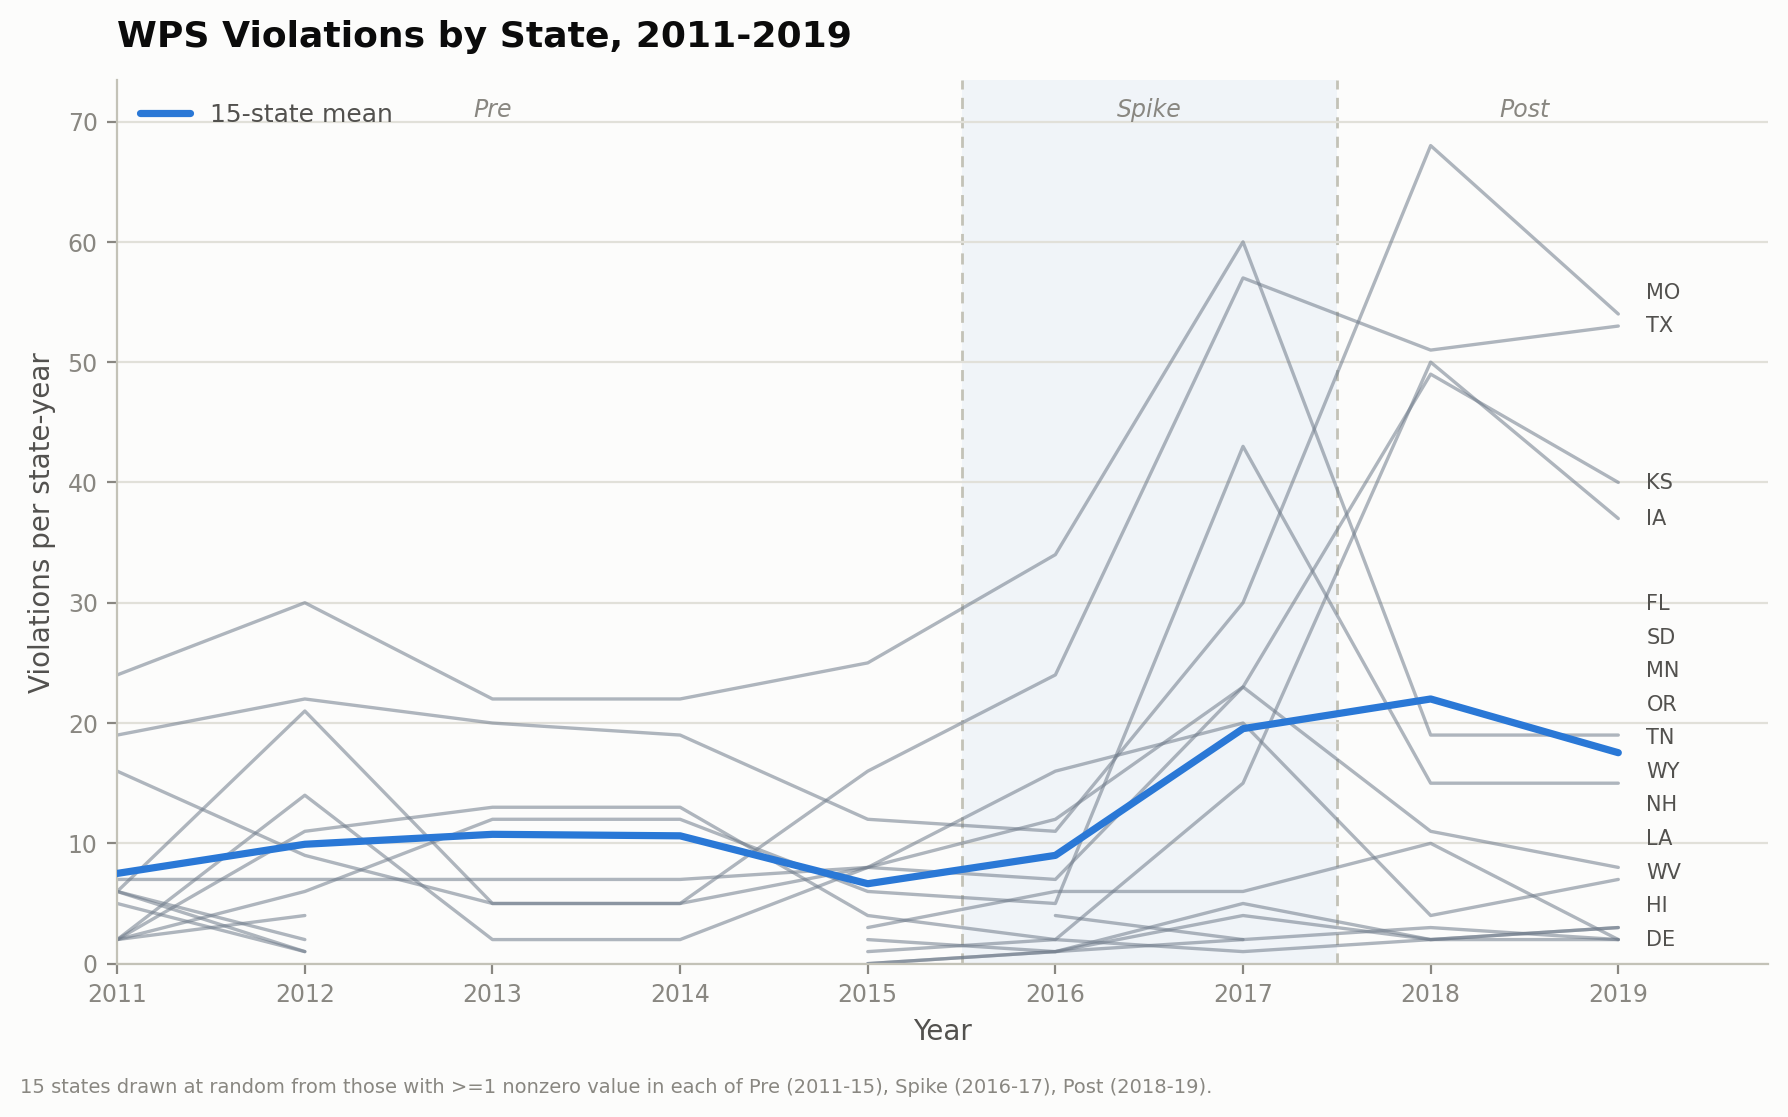
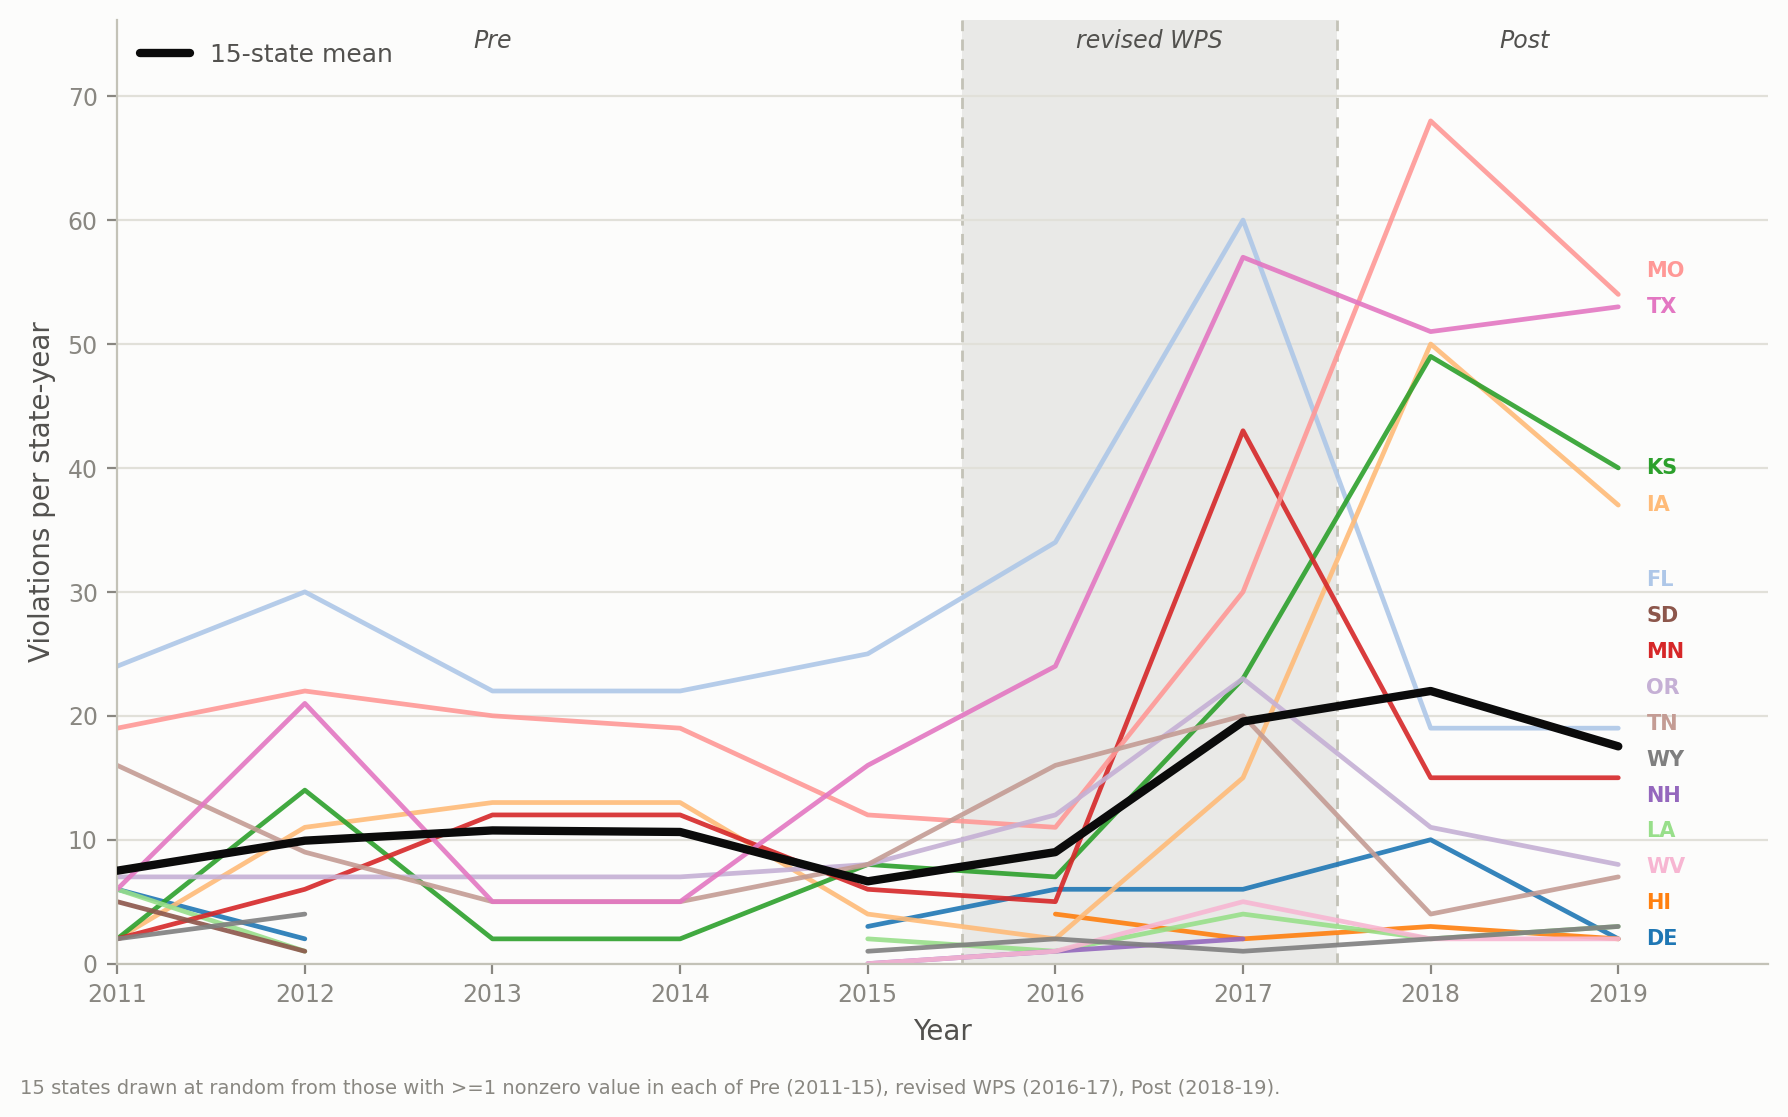
Spaghetti plots: distinct per-state colors, no titles, 'revised WPS' band
Team feedback: color each state line distinctly (tab20) with matching bold
endpoint labels so individual states are identifiable; remove figure titles
(Joe drafts his own headers); relabel the shaded gray band Spike -> revised WPS;
mean line now thick black to stand apart from the colored lines.

diff --git a/scripts/spaghetti_plots.py b/scripts/spaghetti_plots.py
@@ -121,39 +121,41 @@ def plot(long, dv, title, seed, outfile, logscale=False):
     fig.patch.set_facecolor(C_SURFACE)
     ax.set_facecolor(C_SURFACE)
 
-    # spike-period wash + period dividers
-    ax.axvspan(2015.5, 2017.5, color=C_SPIKE, alpha=0.055, zorder=0, lw=0)
+    # revised-WPS period: shaded gray band + dividers
+    ax.axvspan(2015.5, 2017.5, color=C_MUTED, alpha=0.16, zorder=0, lw=0)
     for x in (2015.5, 2017.5):
         ax.axvline(x, color=C_BASE, lw=1, ls=(0, (4, 3)), zorder=1)
 
-    # state lines (shared muted neutral -- identity comes from endpoint labels)
+    # distinct per-state colours (team request: individual lines identifiable);
+    # endpoint labels are coloured to match, so identity is doubled (colour + label).
+    palette = list(plt.get_cmap('tab20').colors)
+    state_color = {st: palette[i % len(palette)] for i, st in enumerate(pick)}
     for st in pick:
-        ax.plot(YEARS, wide.loc[st].values, color=C_LINE, lw=1.2, alpha=0.55, zorder=2,
-                solid_capstyle='round')
+        ax.plot(YEARS, wide.loc[st].values, color=state_color[st], lw=1.7, alpha=0.9,
+                zorder=2, solid_capstyle='round')
 
-    # 15-state mean overlay (single accent line)
+    # 15-state mean overlay (thick black, distinct from the coloured state lines)
     mean_traj = wide.mean(axis=0).values
-    ax.plot(YEARS, mean_traj, color=C_ACCENT, lw=2.6, zorder=4,
+    ax.plot(YEARS, mean_traj, color=C_PRIMARY, lw=3.0, zorder=5,
             solid_capstyle='round', label='15-state mean')
 
-    # endpoint direct labels (identity by label, not colour)
+    # endpoint direct labels, coloured to match each line
     ends = wide[2019].values.astype(float)
     ax.set_xlim(2011, 2019.8)
-    ymax = np.nanmax(wide.values) * 1.08
+    ymax = np.nanmax(wide.values) * 1.12
     ax.set_ylim(0, ymax)
     lab_y = spread_labels(ends, ax)
     for st, y0, y1 in zip(pick, ends, lab_y):
         ax.annotate(NAME_TO_ABBREV[st], xy=(2019, y0), xytext=(2019.15, y1),
-                    va='center', ha='left', fontsize=7.5, color=C_SECOND,
-                    annotation_clip=False)
+                    va='center', ha='left', fontsize=7.5, color=state_color[st],
+                    fontweight='bold', annotation_clip=False)
 
-    # period labels along the top
-    for name, xc in [('Pre', 2013), ('Spike', 2016.5), ('Post', 2018.5)]:
-        ax.text(xc, ymax * 0.98, name, ha='center', va='top', fontsize=8.5,
-                color=C_MUTED, style='italic')
+    # period labels along the top (title removed -- Joe drafts his own header)
+    for name, xc in [('Pre', 2013), ('revised WPS', 2016.5), ('Post', 2018.5)]:
+        ax.text(xc, ymax * 0.99, name, ha='center', va='top', fontsize=8.5,
+                color=C_SECOND, style='italic')
 
-    # chrome
-    ax.set_title(title, fontsize=13, color=C_PRIMARY, loc='left', pad=12, fontweight='bold')
+    # chrome (no figure title)
     ax.set_xlabel('Year', fontsize=10, color=C_SECOND)
     ylab = (f'log(1 + {dv})' if logscale else f'{dv.capitalize()} per state-year')
     ax.set_ylabel(ylab, fontsize=10, color=C_SECOND)
@@ -167,7 +169,7 @@ def plot(long, dv, title, seed, outfile, logscale=False):
     ax.legend(loc='upper left', frameon=False, fontsize=9, labelcolor=C_SECOND)
     fig.text(0.012, 0.015,
              '15 states drawn at random from those with >=1 nonzero value in each '
-             'of Pre (2011-15), Spike (2016-17), Post (2018-19).',
+             'of Pre (2011-15), revised WPS (2016-17), Post (2018-19).',
              fontsize=7, color=C_MUTED)
     fig.tight_layout(rect=(0, 0.03, 1, 1))
     fig.savefig(outfile, facecolor=C_SURFACE, bbox_inches='tight')
